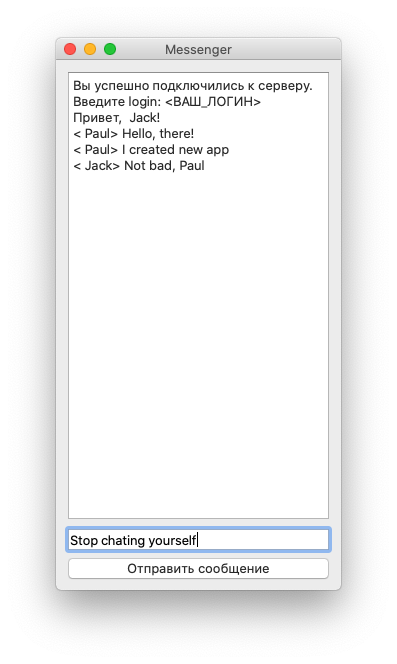
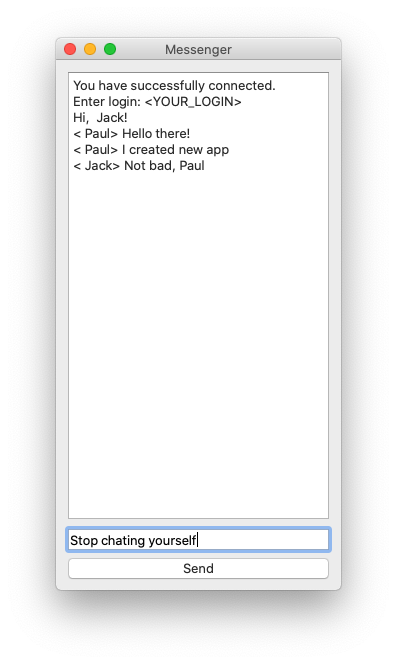
Added English, edited screenshot.

Changed region(s): [[0.1814, 0.1205, 0.7859, 0.2108], [0.3023, 0.8434, 0.6952, 0.8735]]

diff --git a/app/interface.py b/app/interface.py
@@ -3,25 +3,25 @@
 ################################################################################
 ## Form generated from reading UI file 'interface.ui'
 ##
-## Created by: Qt User Interface Compiler version 5.14.2
+## Created by: Qt User Interface Compiler version 5.14.1
 ##
 ## WARNING! All changes made in this file will be lost when recompiling UI file!
 ################################################################################
 
-from PySide2.QtCore import (QCoreApplication, QDate, QDateTime, QMetaObject,
-    QObject, QPoint, QRect, QSize, QTime, QUrl, Qt)
+from PySide2.QtCore import (QCoreApplication, QMetaObject, QObject, QPoint,
+    QRect, QSize, QUrl, Qt)
 from PySide2.QtGui import (QBrush, QColor, QConicalGradient, QCursor, QFont,
-    QFontDatabase, QIcon, QKeySequence, QLinearGradient, QPalette, QPainter,
-    QPixmap, QRadialGradient)
+    QFontDatabase, QIcon, QLinearGradient, QPalette, QPainter, QPixmap,
+    QRadialGradient)
 from PySide2.QtWidgets import *
 
 
-class Ui_MainWindow(object):
-    def setupUi(self, MainWindow):
-        if not MainWindow.objectName():
-            MainWindow.setObjectName(u"Messenger")
-        MainWindow.resize(285, 530)
-        self.centralwidget = QWidget(MainWindow)
+class Ui_Messenger(object):
+    def setupUi(self, Messenger):
+        if Messenger.objectName():
+            Messenger.setObjectName(u"Messenger")
+        Messenger.resize(285, 530)
+        self.centralwidget = QWidget(Messenger)
         self.centralwidget.setObjectName(u"centralwidget")
         self.verticalLayout = QVBoxLayout(self.centralwidget)
         self.verticalLayout.setObjectName(u"verticalLayout")
@@ -41,17 +41,17 @@ class Ui_MainWindow(object):
 
         self.verticalLayout.addWidget(self.pushButton)
 
-        MainWindow.setCentralWidget(self.centralwidget)
+        Messenger.setCentralWidget(self.centralwidget)
 
-        self.retranslateUi(MainWindow)
+        self.retranslateUi(Messenger)
 
-        QMetaObject.connectSlotsByName(MainWindow)
+        QMetaObject.connectSlotsByName(Messenger)
     # setupUi
 
-    def retranslateUi(self, MainWindow):
-        MainWindow.setWindowTitle(QCoreApplication.translate("Messenger", u"Messenger", None))
-        self.plainTextEdit.setPlaceholderText(QCoreApplication.translate("Messenger", u"\u041e\u0436\u0438\u0434\u0430\u0435\u0442 \u043f\u043e\u0434\u043a\u043b\u044e\u0447\u0435\u043d\u0438\u0435 \u043a \u0441\u0435\u0440\u0432\u0435\u0440\u0443", None))
-        self.lineEdit.setPlaceholderText(QCoreApplication.translate("Messenger", u"\u0412\u0432\u0435\u0434\u0438\u0442\u0435 \u0441\u043e\u043e\u0431\u0449\u0435\u043d\u0438\u0435...", None))
-        self.pushButton.setText(QCoreApplication.translate("Messenger", u"\u041e\u0442\u043f\u0440\u0430\u0432\u0438\u0442\u044c \u0441\u043e\u043e\u0431\u0449\u0435\u043d\u0438\u0435", None))
+    def retranslateUi(self, Messenger):
+        Messenger.setWindowTitle(QCoreApplication.translate("Messenger", u"Messenger", None))
+        self.plainTextEdit.setPlaceholderText(QCoreApplication.translate("Messenger", u"Waiting for server connection...", None))
+        self.lineEdit.setPlaceholderText(QCoreApplication.translate("Messenger", u"Enter your message...", None))
+        self.pushButton.setText(QCoreApplication.translate("Messenger", u"Send", None))
     # retranslateUi
 

diff --git a/app/server.py b/app/server.py
@@ -23,7 +23,7 @@ class ClientProtocol(asyncio.Protocol):
                 self.login = decoded.replace("login:", "").replace("\r\n", "")
 
                 self.transport.write(
-                    f"Привет, {self.login}!".encode()
+                    f"Hi, {self.login}!".encode()
                 )
                 self.send_history()
         else:
@@ -48,11 +48,11 @@ class ClientProtocol(asyncio.Protocol):
     def connection_made(self, transport: transports.Transport):
         self.transport = transport
         self.server.clients.append(self)
-        print("Соединение установлено")
+        print("Connection success")
 
     def connection_lost(self, exception):
         self.server.clients.remove(self)
-        print("Соединение разорвано")
+        print("Connection lost")
 
 
 class Server:
@@ -73,7 +73,7 @@ class Server:
             "127.0.0.1",
             8080
         )
-        print("Сервер запущен")
+        print("Server is started")
 
         await coroutine.serve_forever()
 
@@ -82,4 +82,4 @@ process = Server()
 try:
     asyncio.run(process.start())
 except KeyboardInterrupt:
-    print("Сервер остановлен вручную")
+    print("Server stopped manually")

diff --git a/app/client.py b/app/client.py
@@ -5,7 +5,7 @@ import asyncio
 from asyncio import transports
 from PySide2.QtWidgets import QMainWindow, QApplication
 from asyncqt import QEventLoop
-from app.interface import Ui_MainWindow
+from app.interface import Ui_Messenger
 
 
 class ClientProtocol(asyncio.Protocol):
@@ -21,14 +21,15 @@ class ClientProtocol(asyncio.Protocol):
         self.window.plainTextEdit.appendPlainText(decoded)
 
     def connection_made(self, transport: transports.Transport):
-        self.window.plainTextEdit.appendPlainText("Вы успешно подключились к серверу. Введите login: <ВАШ_ЛОГИН>")
+        self.window.plainTextEdit.appendPlainText("You have successfully connected.\n"
+                                                  "Enter login: <YOUR_LOGIN>")
         self.transport = transport
 
     def connection_lost(self, exception):
-        self.window.plainTextEdit.appendPlainText("Вы отключены от сервера")
+        self.window.plainTextEdit.appendPlainText("You are disconnected from the server")
 
 
-class Chat(QMainWindow, Ui_MainWindow):
+class Chat(QMainWindow, Ui_Messenger):
     protocol: ClientProtocol
 
     def __init__(self):
